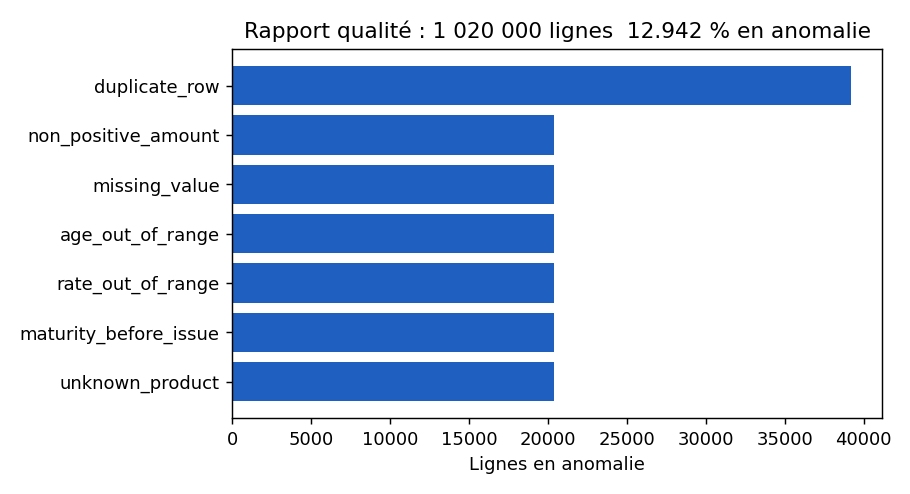
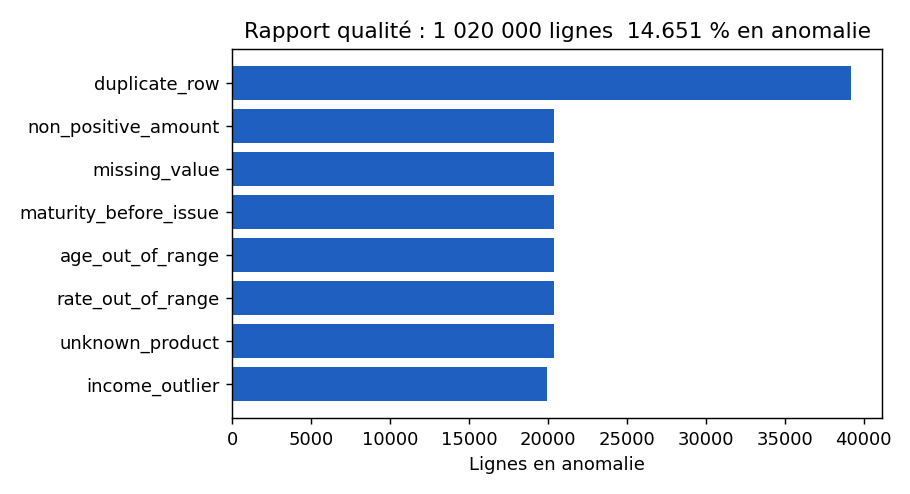
Ajout de la règle de détection de revenus aberrants (IQR) et mise à jour du rapport

diff --git a/src/dq/checks.py b/src/dq/checks.py
@@ -46,6 +46,20 @@ def maturity_before_issue(df: DataFrame) -> DataFrame:
     return _tag(df, F.col("maturity_date") < F.col("issue_date"), "maturity_before_issue")
 
 
+def income_outlier(df: DataFrame, k: float = 3.0) -> DataFrame:
+    """Revenus aberrants : règle de l'écart interquartile (IQR) appliquée sur le log du revenu.
+    Le revenu est très asymétrique ; le log le rend proche d'une loi symétrique. Bornes : Q1 - k*IQR, Q3 + k*IQR.
+    Quantiles approchés (approxQuantile), calculés sur les revenus strictement positifs."""
+    # NaN > 0 vaut vrai en Spark (NaN est « plus grand » que tout nombre) : on l'exclut explicitement
+    positive = (F.col("monthly_income") > 0) & ~F.isnan("monthly_income")
+    valid = df.filter(positive).select(F.log("monthly_income").alias("v"))
+    q1, q3 = valid.approxQuantile("v", [0.25, 0.75], 0.001)
+    iqr = q3 - q1
+    low, high = q1 - k * iqr, q3 + k * iqr
+    lg = F.log(F.col("monthly_income"))
+    return _tag(df, positive & ((lg < low) | (lg > high)), "income_outlier")
+
+
 def duplicates(df: DataFrame) -> DataFrame:
     """Lignes dont tous les champs sont identiques à une autre ligne (toutes les occurrences)."""
     cnt = df.groupBy(*df.columns).count().filter(F.col("count") > 1).drop("count")
@@ -59,6 +73,7 @@ RULES: Dict[str, Callable[[DataFrame], DataFrame]] = {
     "non_positive_amount": non_positive_amount,
     "unknown_product": unknown_product,
     "maturity_before_issue": maturity_before_issue,
+    "income_outlier": income_outlier,
     "duplicate_row": duplicates,
 }
 

diff --git a/tests/test_checks.py b/tests/test_checks.py
@@ -51,3 +51,23 @@ def test_boundaries_are_valid(spark):
                       row(loan_id=3, interest_rate=0.0), row(loan_id=4, interest_rate=60.0)])
     assert checks.run_checks(df)["age_out_of_range"] == 0
     assert checks.run_checks(df)["rate_out_of_range"] == 0
+
+
+def test_income_outlier_detects_extreme_value_only(spark):
+    rows = [row(loan_id=i, monthly_income=2000.0 + 10 * i) for i in range(1, 201)]
+    rows.append(row(loan_id=999, monthly_income=5_000_000.0))
+    r = checks.income_outlier(make(spark, rows)).collect()
+    assert [x.loan_id for x in r] == [999]
+
+
+def test_income_outlier_ignores_missing_and_non_positive(spark):
+    rows = [row(loan_id=i, monthly_income=2000.0 + i) for i in range(1, 101)]
+    rows += [row(loan_id=500, monthly_income=None), row(loan_id=501, monthly_income=0.0)]
+    assert checks.income_outlier(make(spark, rows)).count() == 0
+
+
+def test_income_outlier_ignores_nan(spark):
+    """Un NaN (pandas) ne doit être ni compté comme outlier ni fausser les quantiles."""
+    rows = [row(loan_id=i, monthly_income=2000.0 + i) for i in range(1, 101)]
+    rows += [row(loan_id=500 + i, monthly_income=float("nan")) for i in range(20)]
+    assert checks.income_outlier(make(spark, rows)).count() == 0

diff --git a/src/dq/generate.py b/src/dq/generate.py
@@ -39,6 +39,8 @@ def generate(n_rows: int = 100_000, seed: int = 42, anomaly_rate: float = 0.02) 
     df.loc[pick(), "loan_amount"] = -df["loan_amount"].abs().iloc[0]  # montants négatifs
     df.loc[pick(), "product"] = "unknown_product"                    # modalité inconnue
     idx = pick()
+    df.loc[idx, "monthly_income"] = (df.loc[idx, "monthly_income"] * 1000).round(2)  # revenus aberrants (x1000)
+    idx = pick()
     df.loc[idx, "maturity_date"] = df.loc[idx, "issue_date"] - pd.Timedelta(days=30)  # échéance < émission
     dup = df.sample(k, random_state=seed)
     return pd.concat([df, dup], ignore_index=True)                   # doublons exacts

diff --git a/tests/test_end_to_end.py b/tests/test_end_to_end.py
@@ -11,7 +11,7 @@ def test_injected_anomalies_are_found(spark):
     r = checks.run_checks(spark.createDataFrame(pdf))
     # chaque anomalie est injectée sur K lignes ; la copie des doublons peut en reproduire quelques-unes
     hi = int(K * 1.2)
-    for rule in ("missing_value", "unknown_product", "non_positive_amount", "maturity_before_issue"):
+    for rule in ("missing_value", "unknown_product", "non_positive_amount", "maturity_before_issue", "income_outlier"):
         assert K <= r[rule] <= hi, rule
     assert r["duplicate_row"] >= K  # chaque doublon crée au moins 2 occurrences
 

diff --git a/README.md b/README.md
@@ -4,13 +4,13 @@ Pipeline de **contrôle qualité de données de crédit** : génération d'un je
 
 > ⚠ **Données 100 % synthétiques**, générées par `src/dq/generate.py` (seed fixe). Ce dépôt ne contient aucune donnée ni aucun code issu d'un client.
 
-> **EN —** Data-quality pipeline for credit data: 7 PySpark validation rules, a pass/fail gate on the anomaly rate, an Airflow DAG, Docker and pytest. 100 % synthetic data; the checks are verified against anomalies injected at a known rate.
+> **EN —** Data-quality pipeline for credit data: 8 PySpark validation rules, a pass/fail gate on the anomaly rate, an Airflow DAG, Docker and pytest. 100 % synthetic data; the checks are verified against anomalies injected at a known rate.
 
 ## Le problème
 Dans une banque, des données de crédit incorrectes (âges impossibles, doublons, échéances avant l'émission, valeurs manquantes) faussent le reporting réglementaire et les modèles de risque. Il faut les détecter **à chaque chargement** et pouvoir **bloquer** un lot trop dégradé, avant qu'il n'atteigne les utilisateurs.
 
 ## Ce que fait le projet
-- Applique 7 règles de contrôle sur un gros volume (PySpark), produit un rapport chiffré et la liste des lignes en anomalie, avec la règle violée.
+- Applique 8 règles de contrôle sur un gros volume (PySpark), produit un rapport chiffré et la liste des lignes en anomalie, avec la règle violée.
 - Renvoie un code d'échec si le taux d'anomalies dépasse un seuil : le pipeline Airflow s'arrête au lieu de propager de mauvaises données.
 - Est vérifiable : les anomalies sont injectées à taux connu, donc les tests prouvent que les contrôles retrouvent ce qui a été injecté.
 
@@ -20,7 +20,7 @@ Maîtrise de PySpark, de l'orchestration Airflow, de la qualité des données «
 ## Architecture
 ```
 generate.py ──► data/loans.parquet ──► dq.run (PySpark local[*])
-                                          │  7 règles (checks.py)
+                                          │  8 règles (checks.py)
                                           ├──► reports/dq_report.json
                                           └──► reports/anomalies/ (parquet, colonne `rule`)
 Airflow DAG (dags/credit_dq_dag.py) : generate_synthetic_loans >> run_quality_checks
@@ -35,21 +35,22 @@ Airflow DAG (dags/credit_dq_dag.py) : generate_synthetic_loans >> run_quality_ch
 | `non_positive_amount` | montant ≤ 0 |
 | `unknown_product` | produit hors liste autorisée |
 | `maturity_before_issue` | échéance antérieure à l'émission |
+| `income_outlier` | revenu aberrant : règle IQR (Q1 − 3·IQR, Q3 + 3·IQR) sur le log du revenu, quantiles approchés |
 | `duplicate_row` | lignes strictement identiques (toutes occurrences) |
 
 ## Lancer
 ```bash
 pip install -r requirements.txt      # Java 11+ requis par Spark
-make test                            # 6 tests pytest
+make test                            # 9 tests pytest
 make data                            # 1 000 000 lignes + anomalies
 make run                             # rapport dans reports/dq_report.json
 # ou
 make docker
 ```
-Le job retourne le code 1 si plus de `--max-anomaly-pct` (10 % par défaut) des lignes sont en anomalie. Avec les données synthétiques (≈ 13 % d'anomalies par construction), il **échoue donc volontairement** : c'est le comportement attendu d'un contrôle qualité qui bloque un chargement. Passer `--max-anomaly-pct 20` pour obtenir un code 0.
+Le job retourne le code 1 si plus de `--max-anomaly-pct` (10 % par défaut) des lignes sont en anomalie. Avec les données synthétiques (≈ 15 % d'anomalies par construction), il **échoue donc volontairement** : c'est le comportement attendu d'un contrôle qualité qui bloque un chargement. Passer `--max-anomaly-pct 20` pour obtenir un code 0.
 
 ## Résultat mesuré
-Sur 1 020 000 lignes (1 000 000 + 2 % de doublons injectés), Spark `local[*]`, exécution unique sur une machine de dev (8 cœurs, 3 Go de RAM, Python 3.10, Spark 3.5.1), le job a pris **~41 s** et signalé 132 004 lignes en anomalie (12,9 %), soit ~20 400 par type d'anomalie injectée (2 % chacun) et 39 196 lignes concernées par des doublons. Ce n'est pas un benchmark : une seule exécution, pas de réglage, et ce temps inclut l'écriture des anomalies.
+Sur 1 020 000 lignes (1 000 000 + 2 % de doublons injectés), Spark `local[*]`, exécution unique sur une machine de dev (8 cœurs, 3 Go de RAM, Python 3.10, Spark 3.5.1), le job a pris **~53 s** et signalé 149 443 lignes en anomalie (14,7 %), soit ~20 000 par type d'anomalie injectée (2 % chacun) et 39 196 lignes concernées par des doublons. Ce n'est pas un benchmark : une seule exécution, pas de réglage, et ce temps inclut l'écriture des anomalies.
 
 ![Anomalies par règle](docs/anomalies_per_rule.png)
 *Graphique tracé à partir de `docs/sample_report.json` (sortie réelle du job sur 1,02 M de lignes).*
@@ -60,7 +61,7 @@ Sur 1 020 000 lignes (1 000 000 + 2 % de doublons injectés), Spark `local[*]`, 
 
 Un test a mis en évidence un piège réel : un `NaN` pandas devient un `NaN` Spark, **pas** un `null` ; `isNull()` seul ne détecte donc rien. La règle `missing_value` traite les deux cas.
 
-## Limites
-- Spark en mode local uniquement (pas de cluster).
-- Le DAG Airflow est fourni et vérifié syntaxiquement, mais **n'a pas été exécuté dans un Airflow réel** dans ce dépôt.
-- Règles volontairement simples ; pas de profilage statistique ni de détection d'outliers.
+## Pistes d'évolution
+- Passer de Spark en mode local à un cluster (le code est le même ; non testé sur cluster).
+- Valider le DAG Airflow dans une instance réelle (voir statut ci-dessous).
+- Ajouter du profilage statistique (dérive entre deux lots, corrélations) en plus des règles fixes ; seule la détection de revenus aberrants par IQR est implémentée.
